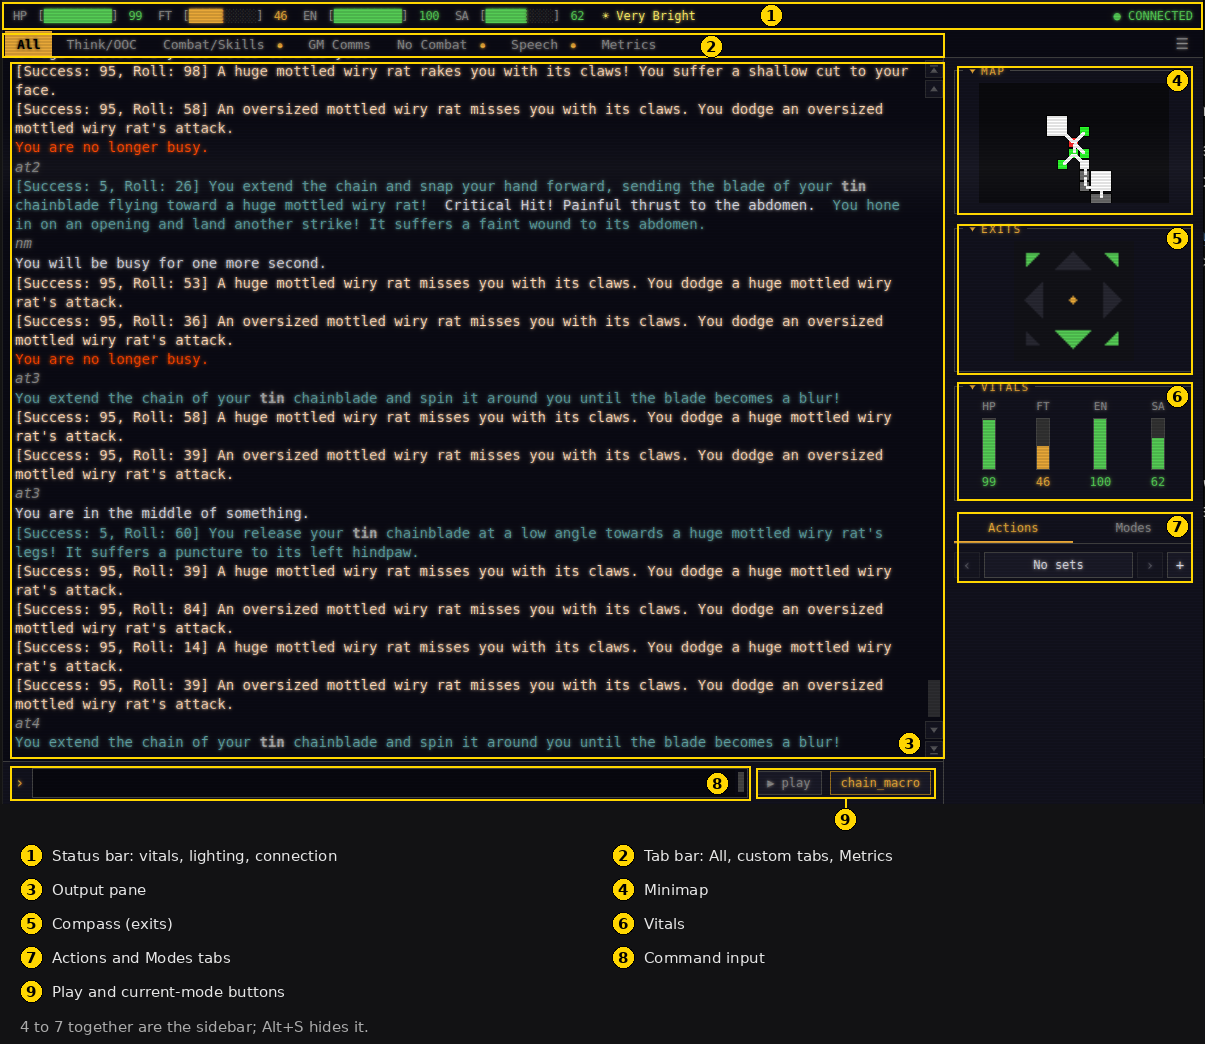
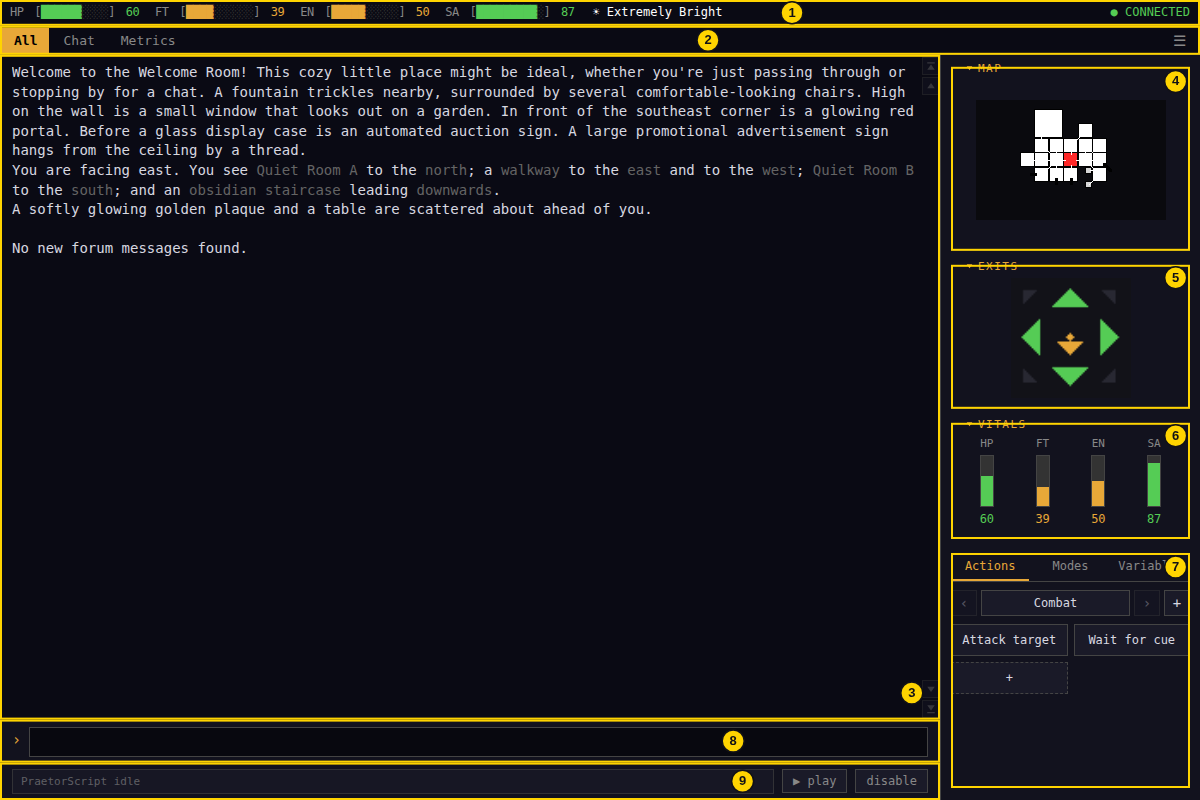
docs: refresh Praetor layout guide image

Changed region(s): [[0.0, 0.0, 1.0, 1.0]]

diff --git a/docs/praetor-guide.md b/docs/praetor-guide.md
@@ -13,9 +13,9 @@ This page covers using the desktop app once it's installed. For installing it, a
 
 ### The layout {#layout}
 
-![](/assets/wikidot/praetor-guide/praetor-layout-callouts.png)
+![Praetor desktop interface with numbered layout callouts](/assets/wikidot/praetor-guide/praetor-layout-callouts.png)
 
-The numbers match the callouts in the picture.
+The numbered legend below matches the callouts in the picture.
 
 1. **Status bar**: your vitals, a lighting readout (click it to check the light level), and whether you're connected.
 2. **Tab bar**: **All** is always there, plus any custom tabs you've set up and a **Metrics** tab. See Tabs below.
